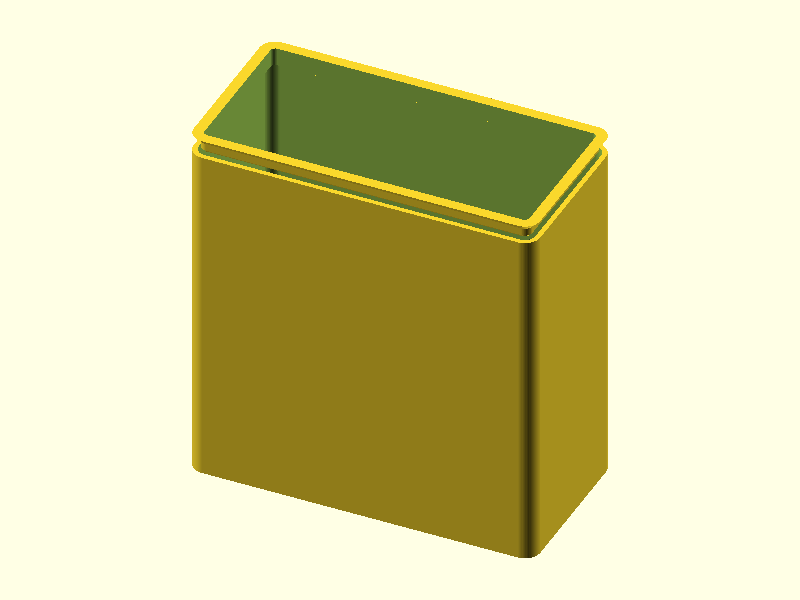
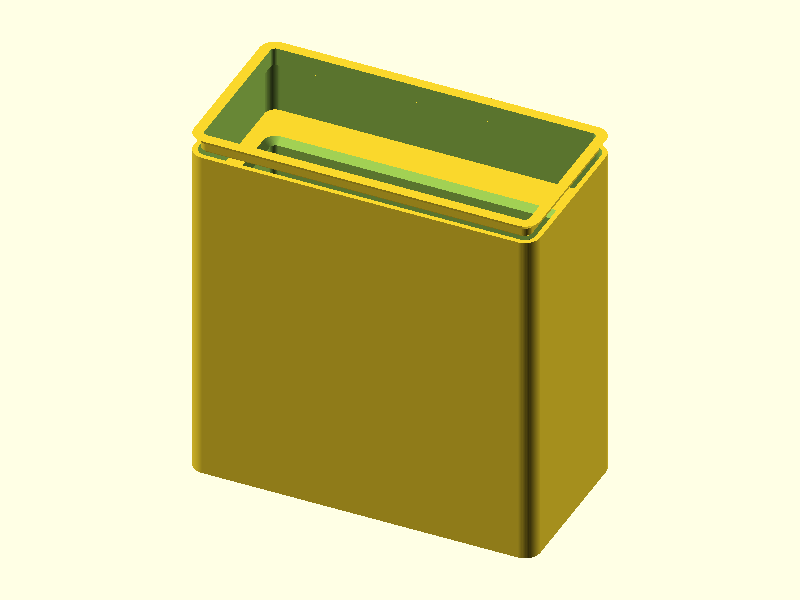
Add section views showing internal pocket structure, rewrite docs for v4
The standard external renders hide the internal features. Added XZ and YZ
section cuts that clearly show pocket walls, pocket void, shelf transition
at Z=71.2, and the two-zone interior (walled pocket below, open above).

Rewrote docs/caliper-test.md from scratch for v4 architecture — the old
page described the v2 L-shaped pocket which no longer exists.

Changed region(s): [[0.2812, 0.18, 0.7188, 0.36]]

diff --git a/docs/caliper-test.md b/docs/caliper-test.md
@@ -1,146 +1,122 @@
 # Caliper-Test Gridfinity Bin
 
-A Gridfinity-compatible 2×1 bin that holds a HARTE 6-inch digital caliper upright. The display body seats in a contoured two-stage pocket; the beam and jaws extend above the rim, making the caliper immediately grabbable without fishing around in a drawer.
+A Gridfinity-compatible 2x1 bin that holds a HARTE 6-inch digital caliper upright. The caliper drops display-body-first into a 70x18mm walled pocket in the lower bin; the beam extends up through the open upper interior and out through the stacking lip, making it immediately grabbable.
 
 ## Renders
 
-![Isometric view of 2x1 Gridfinity bin with two-stage caliper pocket — wide display cavity at bottom, narrow beam slot at top, finger-relief chamfer opening the pocket rim](images/caliper-test/caliper-test-iso.png)
-*Isometric view showing stacking lip at top, two-stage pocket geometry visible through the open top, and standard Gridfinity base profile at the bottom.*
+![YZ section cut showing pocket walls, pocket void, thin upper walls, and stacking lip](images/caliper-test/caliper-test-section-yz.png)
+*YZ section cut (X=0) — the two-zone interior is clearly visible: solid pocket walls (lower, gold) surround the 70x18mm pocket void (center opening), while the upper bin has only thin 1.2mm walls. The Gridfinity base profile is at the bottom.*
 
-![Front elevation showing full 88mm bin height, open beam slot at top, and finger-relief chamfer blending into the display cavity below](images/caliper-test/caliper-test-front.png)
-*Front elevation — 83.5mm wide, 88.4mm tall. The open region at the top is the finger-relief zone; the beam slot narrows to 20mm wide at the center.*
+![XZ section cut showing pocket depth, wall thickness, and transition shelf](images/caliper-test/caliper-test-section-xz.png)
+*XZ section cut (Y=0) — shows pocket wall thickness (10.55mm on Y sides), the pocket floor at Z=7.2mm, the shelf/transition at Z=71.2mm where walls end, and the open upper interior above.*
 
-![Right side showing 41.5mm bin depth, beam slot offset toward the back face, and stacking lip profile](images/caliper-test/caliper-test-right.png)
-*Right side — 41.5mm deep. The beam slot (9mm Y depth) is offset +5.5mm from center toward the back face to align with the caliper beam's actual position within the display body.*
+![Isometric view of 2x1 Gridfinity bin with pocket visible through the open top](images/caliper-test/caliper-test-iso.png)
+*Isometric view — stacking lip at top, thin-walled upper section, pocket opening visible inside.*
 
-![Top-down view showing finger-relief opening, beam slot centered fore-aft with Y offset, and stacking lip perimeter](images/caliper-test/caliper-test-top.png)
-*Top-down view showing the finger-relief opening (81.1mm × 39.1mm), the beam slot (20mm × 9mm) centered in the opening, and the stacking lip around the perimeter.*
+![Top-down view showing stacking lip ring, bin interior, and pocket opening](images/caliper-test/caliper-test-front.png)
+*Top-down view — stacking lip ring (outer), bin walls, and the 70x18mm pocket opening (inner rectangle).*
 
 ## Design Overview
 
-The bin is sized to a HARTE 6-inch digital caliper measured from grid photos (±2mm uncertainty). The caliper inserts display-body-down: the wide display body (68×16mm nominal) slides into the lower pocket, rests on the ledge where the pocket narrows, and the bare beam extends up through the slot and out of the bin. The jaws sit near the bin floor with clearance on all sides.
+The bin uses a standard Gridfinity thin-walled shell (`gf_bin()` library module) with solid pocket walls filling the lower interior. This creates two zones:
+
+- **Lower zone (Z=7 to 71.2mm):** Solid pocket walls surround a 70x18mm pocket opening. The caliper display body (68x16mm) sits in this pocket with +1mm clearance per side.
+- **Upper zone (Z=71.2 to 84mm):** Full 81.1x39.1mm open interior with only 1.2mm exterior walls. The caliper enters through this wide opening and drops into the narrower pocket below.
 
 ```
-  ┌─────────────────────────────┐  ← stacking lip (Z=84–88.4mm)
-  │                             │
-  │     ╔═══╗         ╔═══╗    │  ← finger-relief opening (81.1×39.1mm)
-  │     ║   ║    ┌┐   ║   ║    │
-  │     ║   ║    ││   ║   ║    │  ← beam slot (20×9mm, Y-offset +5.5mm)
-  │     ╚═══╝    └┘   ╚═══╝    │  ← ledge at Z=72.2mm (caliper rests here)
-  │         ┌─────────┐         │
-  │         │ display │         │  ← display body cavity (72×20×65mm)
-  │         │  body   │         │
-  │         │ cavity  │         │
-  │         └─────────┘         │  ← bin floor at Z=7.2mm
-  ├═════════════════════════════┤  ← bridge plate
-  │  ╲     ╱         ╲     ╱   │  ← base profile (2×1 grid, 45° stepped chamfers)
-  └─────────────────────────────┘  ← baseplate interlock (Z=0)
+  Z (mm)
+ 88.4 +---------------------------+  <- stacking lip top
+      |    lip ring (2.6mm)      |
+ 84.0 +----+               +----+  <- body top
+      |    |               |    |
+      |    |  open interior|    |   81.1 x 39.1mm
+      |    |  (thin walls) |    |
+ 71.2 |    +---+       +---+    |  <- pocket wall top (shelf)
+      |    |///|       |///|    |
+      |    |///|pocket |///|    |   70 x 18mm pocket
+      |    |///|70x18  |///|    |   1.5mm corner radii
+      |    |///|       |///|    |
+  7.2 |    |///| floor |///|    |  <- internal floor
+  7.0 +----+---+-------+---+----+  <- base height
+      |     base grid           |
+  0.0 +-------------------------+  <- bed
+
+  /// = solid pocket wall fill (5.55mm X sides, 10.55mm Y sides)
 ```
 
-The 45° finger-relief chamfer blends the display cavity rim (72×20mm) into the wider opening (81.1×39.1mm) over 10mm of height. This creates room to grip the caliper body for extraction — without it, the display body would be recessed 11.8mm below the bin rim with no finger clearance.
+The 1.5mm 45-degree chamfer at the pocket mouth guides the caliper into the pocket. The caliper is held by gravity — no clips or friction fit.
 
 ## Geometry
 
 | Dimension | Value | Notes |
 |-----------|-------|-------|
-| Bounding box | 83.5 × 41.5 × 88.41 mm | 2×1 Gridfinity grid, 12u height |
-| Body height | 84.0 mm | 12 × 7mm height units |
-| Stacking lip height | 4.4 mm | Standard Gridfinity profile |
-| Internal floor elevation | 7.2 mm | Standard Gridfinity base height |
-| Internal usable depth | 76.8 mm | 84.0 − 7.2 mm |
+| Bounding box | 83.5 x 41.5 x 88.4 mm | 2x1 Gridfinity grid, 12u height |
+| Body height | 84.0 mm | 12 x 7mm height units |
+| Stacking lip | 4.4 mm tall, 2.6 mm depth | Standard Gridfinity profile |
+| Floor elevation | 7.2 mm | Standard Gridfinity internal floor |
 | Wall thickness | 1.2 mm | 3 perimeters at 0.4mm nozzle |
-| Inner cavity | 81.1 × 39.1 mm | Outer − 2 × 1.2mm walls |
-| Display body cavity | 72 × 20 × 65 mm | Caliper 68×16mm + 2mm clearance each side |
-| Beam slot | 20 × 9 mm | Caliper beam 16×5mm + 2mm clearance each side |
-| Beam slot height | 11.8 mm | Usable depth 76.8 − display cavity 65.0 mm |
-| Ledge at transition | 26mm × 5.5mm each side | Caliper display body rests here |
-| Volume | 48.93 cm³ | Mesh analysis (trimesh) |
+| Inner cavity | 81.1 x 39.1 mm | Upper zone open dimensions |
+| Pocket opening | 70 x 18 mm | Caliper 68x16mm + 1mm clearance/side |
+| Pocket depth | 64 mm | Display body 63mm + 1mm clearance |
+| Pocket wall (X sides) | 5.55 mm | (81.1 - 70) / 2 |
+| Pocket wall (Y sides) | 10.55 mm | (39.1 - 18) / 2 |
+| Volume | 170 cm3 | Mesh analysis (trimesh) |
 
 ## Features
 
-### Gridfinity Base Profile (Z=0–4.75mm)
+### Gridfinity Base Grid (Z=0-7.0mm)
 
-Two base pads at 42mm pitch (2×1 grid). Each pad has the standard Gridfinity stepped chamfer profile — 0.8mm chamfer, 1.8mm vertical wall, 2.15mm chamfer — totaling 4.75mm height and 2.95mm horizontal reach. The profile mates with Gridfinity baseplates; 0.25mm per-side XY clearance provides the interlock gap.
+Two base pads at 42mm pitch with standard stepped chamfer profile (0.8mm + 1.8mm + 2.15mm). Bridge plate connects pads from Z=4.75 to Z=7.0mm. Uses `gf_base_grid()` library module.
 
-### Bridge Plate (Z=4.75–7.0mm)
+### Pocket Walls (Z=7.0-71.2mm)
 
-Solid plate spanning the full 83.5×41.5mm footprint. Connects the two base pads and forms the structural base of the bin body above the base profile.
+Solid fill inside the bin interior surrounding the 70x18mm pocket. Walls are 5.55mm thick on X sides and 10.55mm thick on Y sides — well above the 1.2mm structural minimum. The horizontal shelf at Z=71.2mm where the pocket walls end is the most visible internal feature.
 
-### Bin Floor (Z=7.0–7.2mm)
+### Pocket Void (Z=7.2-71.2mm)
 
-Solid floor at the standard Gridfinity internal floor elevation. Internal cavity begins at Z=7.2mm with 2.8mm fillet radius at bottom corners (GF_INTERNAL_FILLET).
+70x18mm rectangular pocket with 1.5mm corner radii. Floor at Z=7.2mm (standard Gridfinity internal floor). The caliper display body (68x16mm) drops in with +1mm clearance per side. A 1.5mm 45-degree lead-in chamfer at the pocket mouth (Z=69.7-71.2mm) eases insertion.
 
-### Display Body Cavity (Z=7.2–72.2mm)
+### Open Upper Interior (Z=71.2-84.0mm)
 
-Wide lower pocket (72×20mm) that houses the caliper display body. Centered in the bin XY. The 2mm clearance per side accommodates ±2mm measurement uncertainty from the grid photos. The bottom of the cavity has a 2.8mm fillet at each corner per Gridfinity standard.
+Full 81.1x39.1mm bin interior with 1.2mm thin walls. The caliper enters through this wide space. The caliper beam (16x5mm) extends through here.
 
-### Pocket Transition Ledge + Finger Relief (Z=62.2–72.2mm)
+### Stacking Lip (Z=84.0-88.4mm)
 
-At Z=72.2mm, the display cavity narrows to the beam slot. The resulting ledge (26mm × 5.5mm each side) supports the caliper by its display body upper rim — the primary load path. Simultaneously, a 45° chamfer widens the pocket opening from 72×20mm to 81.1×39.1mm over 10mm of height, providing finger clearance for extraction. The X and Y extents of the finger relief are capped at the inner cavity dimensions to maintain 1.2mm minimum wall thickness.
-
-### Beam Slot (Z=72.2–84.0mm)
-
-Narrow slot (20×9mm) that guides the caliper beam above the display body. The slot is centered in X and offset +5.5mm in Y from the display cavity center — this aligns with the beam's actual position within the display body, which runs along one face of the body rather than through its geometric center.
-
-### Stacking Lip (Z=84.0–88.4mm)
-
-Standard Gridfinity stacking lip: 0.7mm catch at 45°, 1.8mm vertical, 1.9mm at 45°. Receives another bin's base profile when stacking. 0.6mm fillet at the top outer edge.
+Standard Gridfinity stacking lip ring: 0.7mm catch at 45 degrees, 1.8mm vertical, 1.9mm at 45 degrees. Inner opening 78.3x36.3mm — wider than the pocket, does not obstruct caliper insertion. Uses `gf_stacking_lip_ring()` library module.
 
 ## Mating Interfaces
 
-| Interface | This Part | Mates With | Fit Type | Gap/Interference |
-|-----------|-----------|------------|----------|-----------------|
-| Gridfinity base → baseplate | 4.75mm stepped chamfer, 0.25mm per-side XY setback | Gridfinity baseplate receptacle | Clearance fit | 0.25mm per side |
-| Stacking lip → upper bin base | GF_STACKING_LIP profile (0.7mm catch) | Lower bin stacking lip | Clearance fit | Same profile, 0.25mm per side |
-| Display cavity → caliper body | 72×20mm pocket | 68×16mm display body (nominal ±2mm) | Generous clearance | +2mm each side |
-| Beam slot → caliper beam | 20×9mm slot, Y offset +5.5mm from center | 16×5mm beam (nominal ±2mm) | Generous clearance | +2mm each side |
+| Interface | This Part | Mates With | Fit Type | Gap |
+|-----------|-----------|------------|----------|-----|
+| Base to baseplate | 2x1 stepped chamfer, 83.5mm outer | Gridfinity baseplate receptacle | Clearance | 0.25mm/side |
+| Stacking lip to upper bin | Standard lip profile | Upper bin base profile | Clearance | 0.25mm/side |
+| Pocket to caliper body | 70x18mm pocket | 68x16mm display body (+/-2mm) | Loose clearance | +1mm/side |
 
 ## Printability
 
-All-pass. The 330 overhang flags in the geometry report are false positives: every flagged face reports z=0.0mm (the bottom face of the mesh, which sits on the print bed). At z=0, nothing is overhanging — this is the starting surface. Zero actual overhang conflicts; zero bridge issues; zero thin walls.
+All pass. Print base-down with no supports. All overhangs are standard Gridfinity 45-degree profiles. The geometry analyzer flagged 86 faces — all are the bed face (Z=0) false positives.
 
 | Check | Result | Notes |
 |-------|--------|-------|
-| Transitions | 9/9 PASS | 15 detected in mesh; 9 feature transitions per modeling report, all clean |
-| Overhangs | PASS | 330 flags, all at z=0 (base face false positives) |
-| Bridges | PASS | 0 bridge fails, 0 warnings |
-| Thin walls | PASS | 0 thin wall detections |
-| Slicer | N/A | PrusaSlicer not installed in this environment |
+| Transitions | 6/6 PASS | Base, pocket floor, chamfer, shelf, lip catch, lip ramp |
+| Overhangs | PASS | 86 flags, all at Z=0 (bed face false positives) |
+| Bridges | PASS | 0 bridges detected |
+| Thin walls | PASS | 0 thin wall detections; minimum 1.2mm |
+| Slicer | N/A | PrusaSlicer not installed |
 
 ### Geometry Analysis
 
-442 layers at 0.2mm. Watertight mesh. 15 cross-section transitions detected (including the stepped base profile transitions). Key finding: all overhang detection results are the bottom face of the mesh at z=0 — this is a known trimesh artifact where the base face reports 90° because it has no material below it. The actual design overhangs (base chamfers, stacking lip, finger-relief chamfer) are all 45° — within the FDM print limit.
-
-### Slicer Analysis
-
-Slicer analysis not available — PrusaSlicer not installed in this environment.
-
-## Test Prints
-
-The test-print-planner consolidated four spec candidates into two test pieces that together cover all critical fitment and printability questions. Test print models will be committed separately once the modeler completes them.
-
-| Test Print | Purpose | Z Range | Category | Status |
-|------------|---------|---------|----------|--------|
-| `cavity-fit` | Verify 72×20mm cavity fits the caliper display body (±2mm measurement uncertainty) | 7.2–27.2mm | fitment | Specced |
-| `ledge-slot` | Verify beam slot (20×9mm), transition ledge height, and 45° finger-relief chamfer print quality | 62.2–84.0mm | fitment + printability | Specced |
-
-`cavity-fit` is a 20mm cross-section of the display body cavity with a 2mm base plate — prints in minutes, tells you immediately whether the 72×20mm opening fits the actual caliper before printing the full 88mm tall bin. `ledge-slot` is a 21.8mm cross-section of the top zone — covers the ledge geometry, the beam slot centering offset, and the 45° chamfer all in one piece.
-
-Dropped: `pocket-height-capture` (merged into `ledge-slot` — same z-range) and `finger-relief-chamfer` (the chamfer is in the `ledge-slot` z-range).
+442 layers at 0.2mm. Watertight mesh. 13 cross-section transitions detected — all align with declared features. Key transition at Z=71.3mm: 85% area reduction where pocket walls end and the open interior begins. Stacking lip expands at exactly 45 degrees per layer (0.2mm/side per 0.2mm height).
 
 ## Validation
 
 ```
-bbox.x:     83.50 mm  (expected 83.5 ±0.2)    PASS
-bbox.y:     41.50 mm  (expected 41.5 ±0.2)    PASS
-bbox.z:     88.41 mm  (expected 88.4 ±0.2)    PASS
-watertight: true                               PASS
-volume:     48.93 cm³ (expected 30–120 cm³)   PASS
+bbox.x:     83.50 mm  (expected 83.5 +/-0.2)    PASS
+bbox.y:     41.50 mm  (expected 41.5 +/-0.2)    PASS
+bbox.z:     88.41 mm  (expected 88.4 +/-0.2)    PASS
+watertight: true                                  PASS
+volume:     170 cm3   (expected 150-250 cm3)     PASS
 ```
-
-**Spec deviations (approved):**
-- `finger_relief_x`: spec 92mm, actual 81.1mm — capped to inner cavity X to maintain 1.2mm minimum wall. No functional impact; finger clearance is still generous.
-- `finger_relief_y`: spec 40mm, actual 39.1mm — capped to inner cavity Y for the same reason.
 
 ## Print Settings
 
@@ -148,15 +124,15 @@ volume:     48.93 cm³ (expected 30–120 cm³)   PASS
 |---------|-------|
 | Orientation | Base on bed, bin grows upward |
 | Material | PLA |
-| Layer height | 0.2 mm |
-| Infill | 15% gyroid — bin walls carry the load; infill is structural backup |
-| Supports | None — all overhangs are 45° Gridfinity profiles or the vertical pocket walls |
+| Layer height | 0.2mm |
+| Infill | 15% gyroid |
+| Supports | None |
 
 ## BOM
 
 | Qty | Item | Notes |
 |-----|------|-------|
-| 1 | Caliper-Test Gridfinity Bin (3D printed) | PLA, 48.93 cm³ (~55g at 1.24 g/cm³ + infill) |
+| 1 | Caliper-Test Gridfinity Bin (3D printed) | PLA, 170 cm3 |
 
 ## Downloads
 
@@ -165,23 +141,18 @@ volume:     48.93 cm³ (expected 30–120 cm³)   PASS
 | [`caliper-test.stl`](../gridfinity-bins/designs/caliper-test/output/caliper-test.stl) | Print-ready mesh |
 | [`caliper-test.scad`](../gridfinity-bins/designs/caliper-test/caliper-test.scad) | Parametric OpenSCAD source |
 | [`spec.json`](../gridfinity-bins/designs/caliper-test/spec.json) | Validation spec |
-| [`geometry-report.json`](../gridfinity-bins/designs/caliper-test/output/geometry-report.json) | Mesh analysis (trimesh) |
-| [`modeling-report.json`](../gridfinity-bins/designs/caliper-test/output/modeling-report.json) | Feature inventory from modeler |
-| [`requirements.md`](../gridfinity-bins/designs/caliper-test/requirements.md) | Full design requirements |
-| [`test-prints.json`](../gridfinity-bins/designs/caliper-test/output/test-prints.json) | Test print manifest (2 pieces) |
-| [`gridfinity-spec.scad`](../scad-lib/gridfinity-spec.scad) | Gridfinity constants and profiles |
-| [`gridfinity.scad`](../scad-lib/gridfinity.scad) | Gridfinity module library |
-| [`gridfinity-design-guide.md`](../scad-lib/gridfinity-design-guide.md) | Gridfinity design reference |
+| [`geometry-report.json`](../gridfinity-bins/designs/caliper-test/output/geometry-report.json) | Mesh analysis |
+| [`review-printability.md`](../gridfinity-bins/designs/caliper-test/output/review-printability.md) | Full printability review |
+| [`requirements.md`](../gridfinity-bins/designs/caliper-test/requirements.md) | Design requirements |
 
 ## Pipeline
 
 | Stage | Agent | Result |
 |-------|-------|--------|
-| Spec | spec-writer | 5 pocket dims, 4 fitment interfaces, 4 test print candidates |
-| Model | modeler | PASS (2 iterations) — finger relief Y/X capped to maintain min wall |
-| Geometry | geometry-analyzer | 442 layers, 0 bridge fails, 330 false-positive overhangs at z=0 |
-| Review | print-reviewer | 9/9 transitions PASS, 0 conflicts |
-| Test prints | test-print-planner | 2 test pieces (cavity-fit, ledge-slot) — models pending |
+| Spec | spec-writer | 4 features, 3 mating interfaces, 1 test print candidate |
+| Model | modeler | PASS (4 iterations across versions) |
+| Geometry | geometry-analyzer | 442 layers, 0 bridges, 86 bed-face false positives |
+| Review | print-reviewer | 6/6 transitions PASS, 0 conflicts |
 | Ship | shipper | this commit |
 
 Built with pipeline v4
